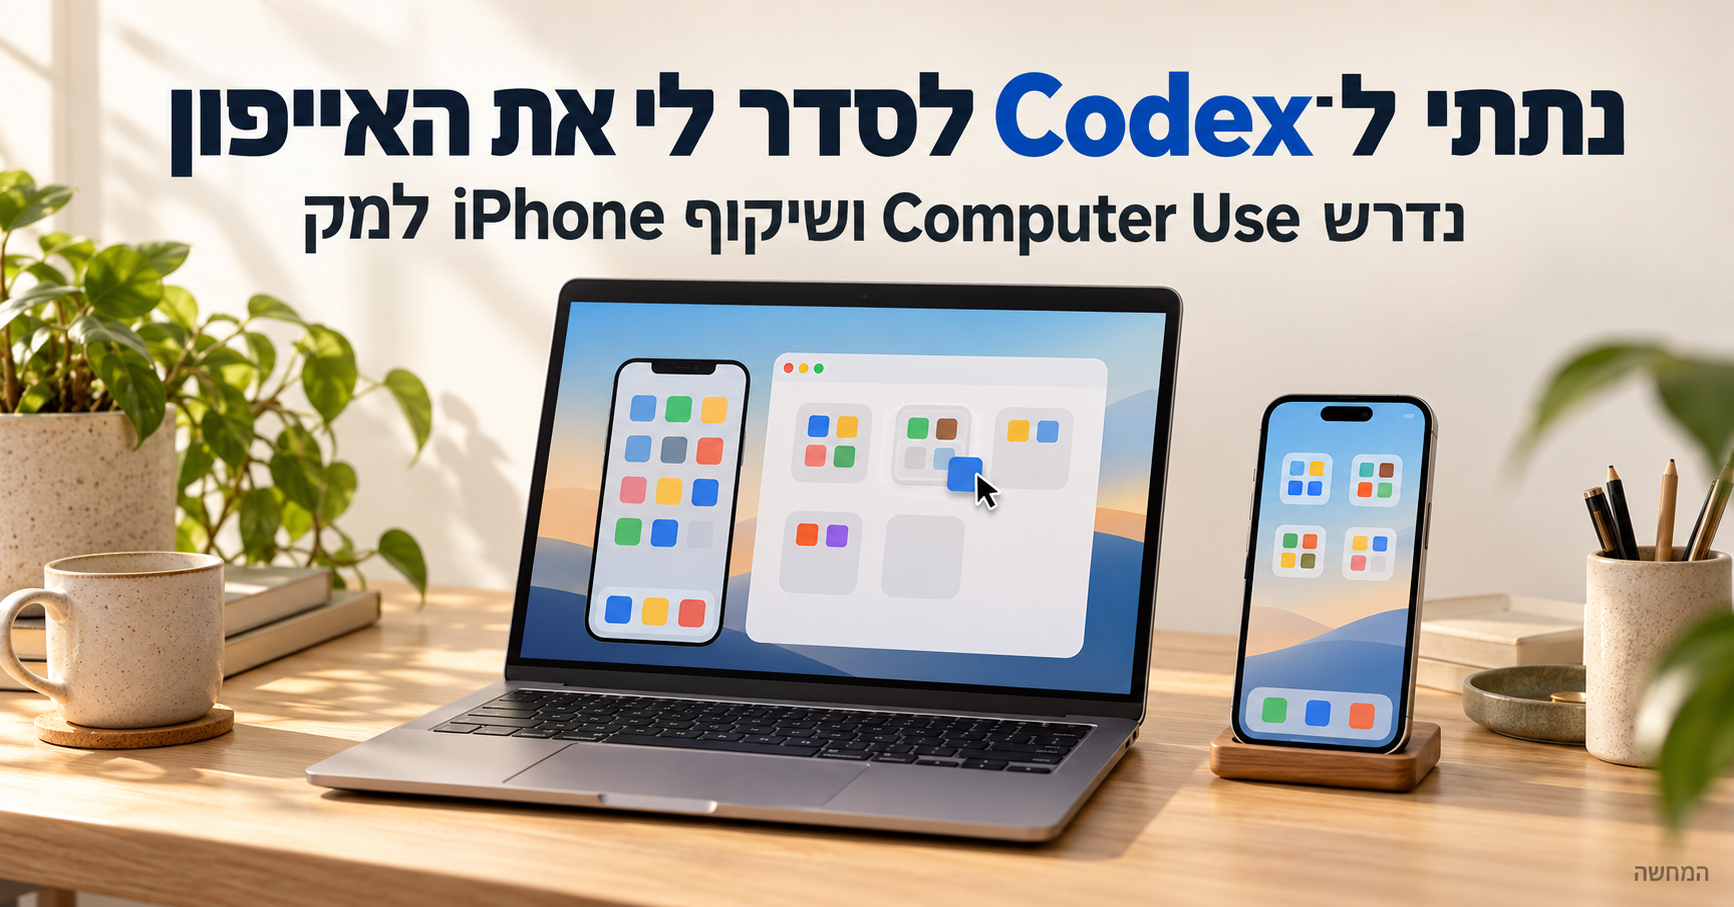
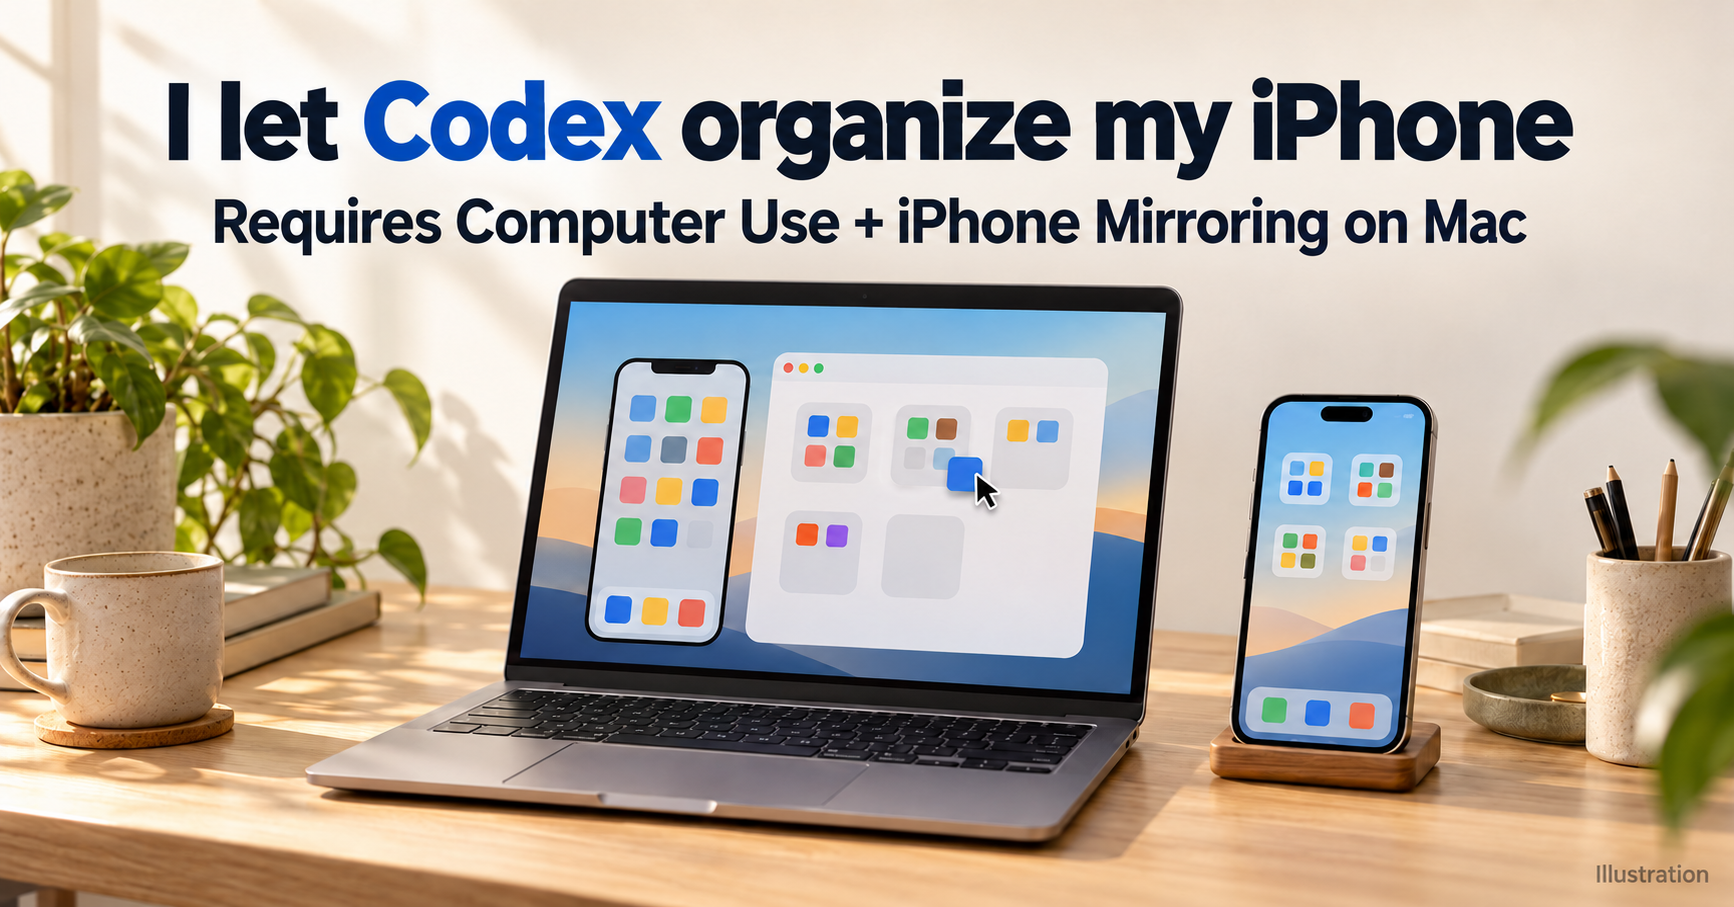
Add English visual quick start and clarify iterative layout discovery

Changed region(s): [[0.0934, 0.0617, 0.9343, 0.2778], [0.9031, 0.957, 0.9965, 0.9879], [0.0311, 0.8026, 0.0623, 0.8335]]

diff --git a/docs/START-HERE.md b/docs/START-HERE.md
@@ -1,0 +1,73 @@
+# Quick start: six steps
+
+![Six steps for organizing your iPhone Home Screen, with details below.](quick-start.png)
+
+[Open the full-size image](quick-start.png) · [SVG version](quick-start.svg)
+
+## 1. Check your agent
+
+It must already be able to **see and control your Mac's native iPhone Mirroring window**, including dragging. This skill does not add Computer Use.
+
+**No native control? You can still make a plan, but not apply it automatically.** [Agent compatibility](../README.md#compatibility-instructions-are-not-device-control).
+
+## 2. Install once
+
+Review [the installer](../install.sh) first. In your Mac's Terminal, choose **one** option:
+
+**Codex / Cursor / Gemini CLI / OpenCode:**
+
+```sh
+git clone https://github.com/IamShaharFar/iphone-home-organizer.git && sh iphone-home-organizer/install.sh
+```
+
+**Claude Code:**
+
+```sh
+git clone https://github.com/IamShaharFar/iphone-home-organizer.git && sh iphone-home-organizer/install.sh --agent claude
+```
+
+Already cloned the repository? Run `sh install.sh` or `sh install.sh --agent claude` from its folder instead. An existing installed skill is not overwritten: review and move the old copy yourself before reinstalling. [Other install targets and paths](../README.md#quick-install).
+
+## 3. Open iPhone Mirroring
+
+On your Mac, open Apple's **iPhone Mirroring** and confirm the correct iPhone appears. Complete sign-in yourself. Never share passwords or passcodes with the agent.
+
+Need setup help? [Apple's requirements and availability](https://support.apple.com/en-us/120421). Mirroring needs a compatible Mac and iPhone; a browser-only agent is not enough.
+
+## 4. Start the skill and personalize
+
+Select **iphone-home-organizer** in your agent, or ask it to read [SKILL.md](../skills/iphone-home-organizer/SKILL.md).
+
+- Codex: `$iphone-home-organizer`
+- Claude Code / Cursor: `/iphone-home-organizer`
+- Other hosts: use their documented skill selection, or read the file directly if supported.
+
+**For a better plan:** share privacy-reviewed screenshots of **all Home Screen pages**, plus relevant folder pages and widgets. Hide notifications and sensitive information first. If the agent can inspect those pages live, you do not need to attach the same views again.
+
+Expect a conversation, not one fixed questionnaire. The agent should ask short follow-up questions until it understands your priorities, what must stay, folder preferences, and important tradeoffs. It should not guess answers that would materially change the plan. Ask it to summarize your priorities back before proposing the exact layout. No screenshots or live view? Start with an app list and mark gaps as unknown.
+
+Then send:
+
+```text
+Use iphone-home-organizer to organize my iPhone Home Screen.
+Check native Computer Use first. Inspect my pages live or use my screenshots.
+Ask follow-up questions until you understand my priorities and preferences.
+Do not guess important missing details. Keep my Dock and widgets unchanged. Show the exact plan and wait for my
+approval. If you cannot control this Mac, give me a manual plan only.
+```
+
+## 5. Approve the exact plan
+
+Tell the agent what matters most. Review the proposed app moves and folder names. **Only approve when the exact changes look right.** The agent should not move anything before that approval.
+
+## 6. Check the result
+
+The agent should move items in small batches, recheck each move, then verify every changed page and folder. Review what is **completed, not completed, or not verified**.
+
+If something is uncertain, **stop and check**, rather than repeating blind drags.
+
+---
+
+**Know the limits:** The package is a prototype and has not been end-to-end tested on a device or with the listed agents. Installation copies instructions only. No app deletion or device-setting changes. Screenshots are visual records, not restorable backups; full undo is not guaranteed. Keep personal screenshots and app inventories out of public issues.
+
+The graphic is a workflow illustration, not a device screenshot. [Full instructions and safety details](../README.md).

diff --git a/README.md b/README.md
@@ -6,11 +6,23 @@
 
 **Requires Computer Use.** To apply changes, your agent must already be authorized to **see and control the native iPhone Mirroring window on your Mac**, including supported drag gestures. Installing this skill does not add GUI tools, grant permissions, or make a CLI desktop-capable.
 
-An agent-neutral [Agent Skills](https://agentskills.io/specification) workflow: **ask → inspect → propose an exact layout → get explicit approval → move in small batches → verify**.
+An agent-neutral [Agent Skills](https://agentskills.io/specification) workflow: **ask and clarify → inspect → propose an exact layout → get explicit approval → move in small batches → verify**.
 
 **Prototype, not device-tested.** The author reports doing a similar task with Codex, Computer Use, and Apple's iPhone Mirroring. This reusable package was prepared without that Mac or its precise tool/OS configuration. No listed agent has been end-to-end tested with this package.
 
-[עברית — התחלה מהירה](docs/START-HERE.he.md)
+## Start here: the visual guide
+
+**Less reading, six steps:** [Open the visual quick start](docs/START-HERE.md).
+
+[![Six-step quick start: check Computer Use, install the skill, open iPhone Mirroring, share your layout and answer follow-up questions, approve the exact plan, then verify the result.](docs/quick-start.png)](docs/START-HERE.md)
+
+[Full-size image](docs/quick-start.png) · [Accessible text and copyable commands](docs/START-HERE.md)
+
+## A good layout starts with understanding you
+
+This is a conversation, not a one-shot questionnaire. The agent asks short follow-ups until it understands your priorities, must-keep items, folder preferences, current layout, and important tradeoffs. It should not guess missing details that would change the plan, and should summarize your priorities back before proposing the exact layout.
+
+**For better results, share privacy-reviewed screenshots of all Home Screen pages**, plus relevant folder pages and widgets. Redact sensitive information and notifications. If the agent can inspect the same views live, extra attachments are unnecessary. Without either, use an app list and label unknowns rather than inventing a layout. Screenshots are visual references, **not restorable backups**.
 
 ## Compatibility: instructions are not device control
 
@@ -68,8 +80,9 @@ Only the `codex` target reads `CODEX_HOME`; shared and other targets ignore it. 
 ```text
 Read and follow the iphone-home-organizer skill to help organize my iPhone
 Home Screen through Apple's iPhone Mirroring on my Mac. First check your
-actual Computer Use capabilities. Ask briefly about my priority apps and
-folder preferences. Keep my Dock and widgets unchanged by default. Show the
+actual Computer Use capabilities. Inspect my pages live or use privacy-reviewed screenshots. Ask short
+follow-ups until you understand my priorities, layout, and folder preferences.
+Do not guess important missing details. Keep my Dock and widgets unchanged by default. Show the
 exact change list and wait for my explicit approval before applying it.
 If you cannot control this Mac and the mirrored iPhone, provide a plan and
 manual steps only. Do not claim the plan was applied.
@@ -78,7 +91,7 @@ manual steps only. Do not claim the plan was applied.
 ## Safety and privacy
 
 - Preserves the Dock and existing widgets by default; asks about protected items and preferences.
-- Inventories visible pages, then proposes exact moves and folder changes before seeking explicit approval.
+- Clarifies preferences iteratively, inventories visible pages or supplied screenshots, then proposes exact moves and folder changes before seeking explicit approval.
 - Re-observes after each drag and stops on uncertainty, rather than repeating blind gestures.
 - Does not delete apps, change app data, edit App Library's automatic categories, or change Focus, Lock Screen, accounts, authentication, or other device settings.
 - Screenshots are visual records, **not restorable backups**. Full restoration is not guaranteed.

diff --git a/skills/iphone-home-organizer/SKILL.md b/skills/iphone-home-organizer/SKILL.md
@@ -20,17 +20,27 @@ Build a personalized, approved Home Screen layout without deleting apps or chang
 - Consult [Apple's current requirements and availability](https://support.apple.com/en-us/120421) when troubleshooting compatibility. At drafting time: Apple silicon or T2 Mac, macOS 15+, iOS 18+ with a passcode, the same Apple Account with two-factor authentication, Wi-Fi and Bluetooth enabled, and a nearby locked iPhone; other restrictions and regional availability apply. Do not install updates or change system settings as part of organizing.
 - If the Mac is off, mirroring is unavailable, or required control is unsupported, clearly select **planning only**. Use a user-provided app list or optional privacy-reviewed screenshots; mark missing information unknown. Do not imply a proposed layout was applied or keep retrying an unavailable connection.
 
-## 2. Personalize briefly
+## 2. Personalize through short, iterative questions
 
-Ask only what is not already known, ideally in one short message:
+Start with a short, relevant set of questions. This is not a fixed questionnaire or a one-round limit: ask focused follow-ups until you understand the user's priorities, current layout, constraints, and tradeoffs well enough to recommend a tailored plan. Reuse answers already given and avoid repetition. Do not guess important missing answers to finish faster.
+
+Useful starting questions:
 
 1. Which apps deserve immediate access, and what should never move?
 2. Should the Dock stay exactly as it is? Which widgets must remain?
 3. Prefer a few themed folders or mostly visible icons? What folder language/names and approximate page count feel right?
 
+After each answer, resolve remaining material ambiguities: frequently used versus occasional apps, desired first-page access, folder grouping/names, protected positions, widget needs, page-count tradeoffs, and visual simplicity versus quick access. Explain a tradeoff briefly when it helps the user choose. Stop asking when the relevant choices are clear enough, not after an arbitrary number of rounds; minor reversible details can be proposed explicitly for approval rather than over-questioned.
+
+Recommend privacy-reviewed screenshots of **all Home Screen pages**, plus relevant folder pages and widgets, as useful context for a higher-quality plan. Ask the user to redact sensitive information and notifications. If fresh live inspection already covers those views, do not require redundant screenshots. If neither is available, work from an app list and questions, label gaps as unknown, and keep recommendations conditional. Screenshots are visual references, not backups or proof of the current state at execution time.
+
+Before proposing the exact layout, summarize the priorities and protected items back to the user and resolve any correction. A preference summary is not approval to apply changes.
+
 Use the user's priorities, not assumptions about usage based on app names. Default to preserving the Dock, existing widgets, familiar first-page anchors, and folder names until the user chooses otherwise. Do not inspect app contents or Screen Time to guess preferences.
 
 ## 3. Inventory before editing
+
+Use user-provided screenshots for planning when available, noting their date or potential staleness and any cropped or missing views. Before execution, reconcile with fresh live observations. Never infer unseen pages or folder contents from a partial screenshot set.
 
 With permission to inspect, navigate the visible Home Screen pages without entering edit mode. Record each page's apps, folders, existing widget footprints, empty spaces, and the Dock. Identify positions by page and observed row/column or clear visual anchors; account for interface language, icon size, and widget spans rather than assuming a fixed grid. Open only folders needed for the agreed scope, not apps, and record their internal pages when relevant.
 
